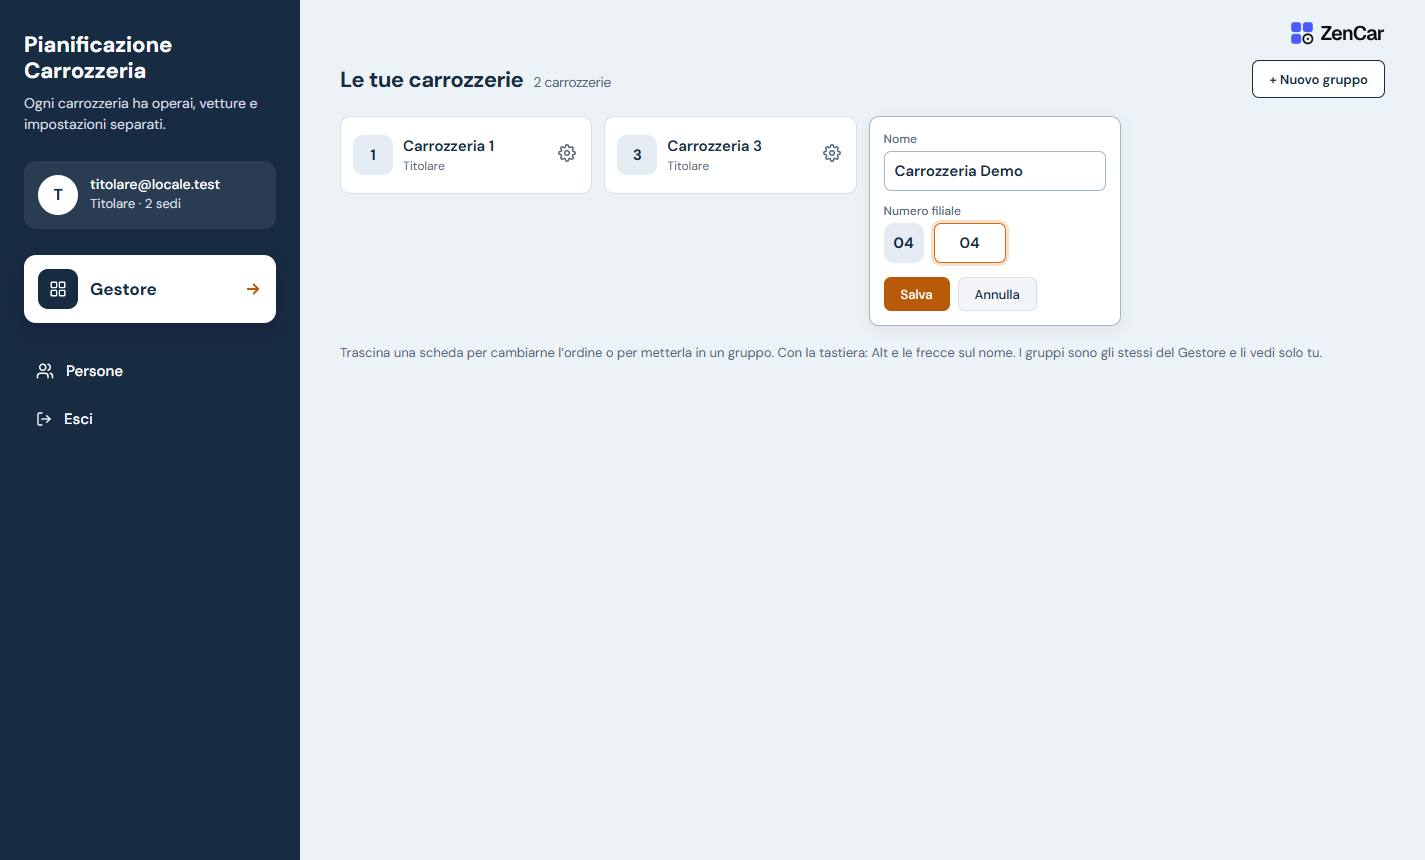
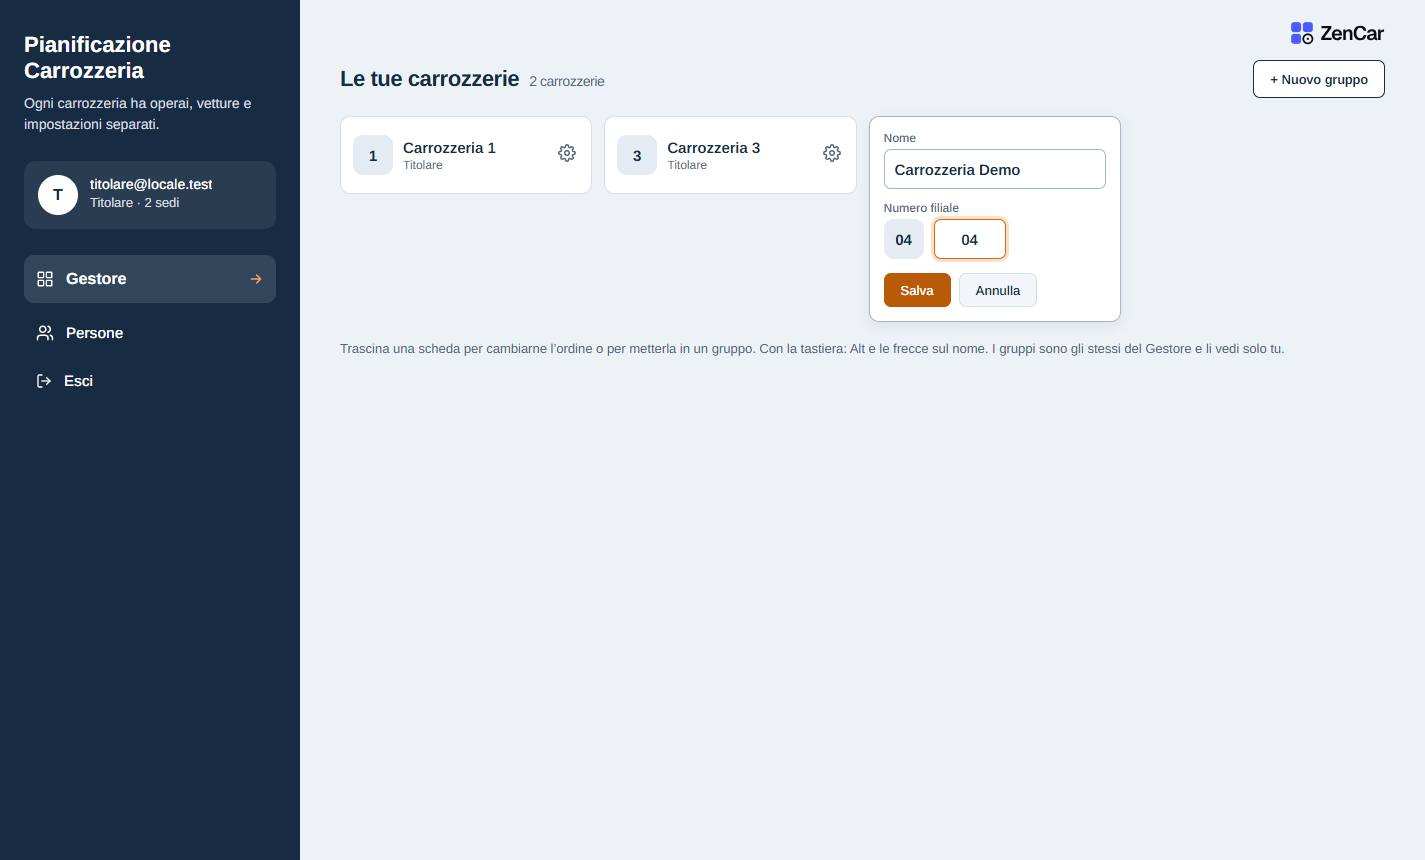
Planner 0.32.0: carattere Arimo, Gestore nel menu, barra compatta sul telefono

diff --git a/planner/accesso.css b/planner/accesso.css
@@ -447,12 +447,11 @@ body.vista-tabellone > header.top, body.vista-tabellone > #main { display: none;
 #landing .lside-chi b + span { font-size: 13px; color: #d9dde1; }
 #landing .lside-nav { display: grid; gap: 4px; }
 /* il Gestore in evidenza (proposta F, 2026-11-11): riquadro bianco con icona, titolo, spiegazione e freccia arancione */
-#landing .lges { display: grid; grid-template-columns: 40px 1fr 18px; align-items: center; gap: 12px; width: 100%; padding: 14px; border: 0; border-radius: 12px; background: var(--surface); color: var(--ink); text-align: left; cursor: pointer; box-shadow: 0 6px 18px #00000030; }
-#landing .lges:hover { background: var(--tape-soft); }
+#landing .lges { display: grid; grid-template-columns: 18px 1fr 16px; align-items: center; gap: 12px; width: 100%; height: 48px; margin-bottom: 4px; padding: 0 12px; border: 0; border-radius: 10px; background: #ffffff1f; color: #fff; text-align: left; cursor: pointer; }
+#landing .lges:hover { background: #ffffff30; }
 #landing .lges:focus-visible { outline: 3px solid var(--tape-chiaro); outline-offset: 3px; }
-#landing .lges-i { width: 40px; height: 40px; display: flex; align-items: center; justify-content: center; border-radius: 10px; background: var(--navy); color: #fff; }
-#landing .lges b { font: 700 17px var(--f, system-ui); }
-#landing .lges-f { color: var(--tape); }
+#landing .lges b { font: 700 16px var(--f, system-ui); }
+#landing .lges-f { color: #F0A060; }
 #landing .lside .lstr { justify-content: flex-start; gap: 12px; width: 100%; min-width: 0; height: 44px; padding: 0 12px; border: 0; border-radius: 7px; background: transparent; color: #fff; font: 500 15px var(--f, system-ui); text-align: left; }
 #landing .lside .lstr:hover { background: #ffffff17; }
 #landing .lside .lstr[aria-expanded="true"] { background: #ffffff24; }
@@ -583,9 +582,29 @@ body.vista-tabellone > header.top, body.vista-tabellone > #main { display: none;
 #lannuncio { position: absolute; width: 1px; height: 1px; overflow: hidden; clip: rect(0 0 0 0); white-space: nowrap; margin: 0; }
 @media (prefers-reduced-motion: reduce) { #landing .lgruppo { transition: none; } #lavviso:not([hidden]) { animation: none; } }
 /* una scheda in modifica è più alta: le altre della stessa riga restano alte 76px */
-#landing .lmain .lgrid { align-items: start; }
+#landing .lmain .lgrid { align-items: start; grid-auto-rows: auto; }
 #landing .lmain .lgrid > .lcardi, #landing .lmain .lgrid > .ladd { height: auto; }
 /* logo ZenCar in alto a destra, sul fondo chiaro (2026-11-12): sul blu notte della colonna i due blu si scontrerebbero */
 #landing .lmarchio { display: flex; justify-content: flex-end; margin: -16px 0 -4px; }
 #landing .lmarchio svg { display: block; height: 26px; width: auto; }
 @media (max-width: 900px) { #landing .lmarchio { margin: 0 0 -6px; } #landing .lmarchio svg { height: 22px; } }
+/* H (2026-11-12): la pagina delle carrozzerie usa Arimo, il carattere del planner; entrando in una carrozzeria il testo non cambia */
+#landing.elenco, #lavviso { --f: Arimo, Arial, "Helvetica Neue", sans-serif; font-family: var(--f); }
+/* K (2026-11-12): sul telefono la colonna diventa una barra compatta: chi è entrato con Persone ed Esci in icona, sotto il Gestore;
+   subito dopo la ricerca e le schede. Il logo scende in fondo alla pagina. */
+@media (max-width: 640px) {
+  #landing .lside { display: grid; grid-template-columns: minmax(0, 1fr) repeat(3, auto); align-items: center; gap: 12px 4px; padding: 12px 16px 14px; }
+  #landing .lside-tit { position: absolute; width: 1px; height: 1px; overflow: hidden; clip: rect(0 0 0 0); white-space: nowrap; }
+  #landing .lside-chi { grid-column: 1; grid-row: 1; padding: 0; background: none; gap: 10px; min-width: 0; }
+  #landing .lside-chi .conto-ini.grande { width: 36px; height: 36px; line-height: 36px; font-size: 15px; }
+  #landing .lside-nav { display: contents; }
+  #landing .lside .lstr { grid-row: 1; width: 44px; height: 44px; padding: 0; justify-content: center; }
+  #landing .lside .lstr-t { position: absolute; width: 1px; height: 1px; overflow: hidden; clip: rect(0 0 0 0); white-space: nowrap; }
+  #landing .lges { grid-column: 1 / -1; grid-row: 2; margin: 0; }
+  #landing .lmain { padding: 16px 16px 32px; gap: 12px; }
+  #landing .lmarchio { order: 99; justify-content: center; margin: 8px 0 0; }
+  #landing .lmain .lbar .ltit { font-size: 21px; }
+  #landing .lcerca input { height: 44px; font-size: 15px; }
+  #landing .lpag .lopen { min-height: 64px; padding-top: 10px !important; padding-bottom: 10px !important; }
+  #landing .lpag .lgear { top: 14px; }
+}

diff --git a/planner/accesso.js b/planner/accesso.js
@@ -242,17 +242,17 @@ const Accesso = (() => {
   /** Colonna blu notte a sinistra (proposta C scelta dal titolare il 2026-11-11): chi è entrato, strumenti, Esci. */
   function laterale(gone) {
     const email = S.utente.email || '', chi = chiSono(), b = [];
-    // il Gestore in evidenza (proposta F, 2026-11-11): riquadro bianco sul fondo blu notte, con una riga di spiegazione
-    const gestore = vedeGestore() ? `<button type="button" class="lges" data-gestore="1"><span class="lges-i">${ICONA.gestore}</span><b>Gestore</b>
-      <svg class="lges-f" width="18" height="18" viewBox="0 0 24 24" fill="none" stroke="currentColor" stroke-width="2.4" stroke-linecap="round" stroke-linejoin="round" aria-hidden="true"><path d="M5 12h14M13 6l6 6-6 6"/></svg></button>` : '';
-    if (sediMie().length) b.push(`<button type="button" class="lstr" data-persone="1">${ICONA.persone}Persone</button>`);
-    if (gone.length) b.push(`<button type="button" class="lstr" data-eliminate="1" aria-expanded="${!!S.eliminate}">${ICONA.cestino}Carrozzerie eliminate (${gone.length})</button>`);
-    b.push(`<button type="button" class="lstr" data-esci="1">${ESCI}Esci</button>`);
+    // il Gestore (proposta I, 2026-11-12): prima voce del menu, più grande e su una fascia chiara; le carrozzerie restano in primo piano
+    const gestore = vedeGestore() ? `<button type="button" class="lges" data-gestore="1">${ICONA.gestore}<b>Gestore</b>
+      <svg class="lges-f" width="16" height="16" viewBox="0 0 24 24" fill="none" stroke="currentColor" stroke-width="2.4" stroke-linecap="round" stroke-linejoin="round" aria-hidden="true"><path d="M5 12h14M13 6l6 6-6 6"/></svg></button>` : '';
+    if (sediMie().length) b.push(`<button type="button" class="lstr" data-persone="1">${ICONA.persone}<span class="lstr-t">Persone</span></button>`);
+    if (gone.length) b.push(`<button type="button" class="lstr" data-eliminate="1" aria-expanded="${!!S.eliminate}">${ICONA.cestino}<span class="lstr-t">Carrozzerie eliminate (${gone.length})</span></button>`);
+    b.push(`<button type="button" class="lstr" data-esci="1">${ESCI}<span class="lstr-t">Esci</span></button>`);
     return `<aside class="lside" aria-label="Account e strumenti">
       <div class="lside-tit"><h1>Pianificazione Carrozzeria</h1><p>Ogni carrozzeria ha operai, vetture e impostazioni separati.</p></div>
       <div class="lside-chi" title="${esc(email)}"><span class="conto-ini grande" aria-hidden="true">${esc((S.nome || email).charAt(0).toUpperCase())}</span>
         <span><b${S.nome ? '' : ' class="email"'}>${esc(S.nome || email)}</b><span>${esc(chi.ruolo)} · ${esc(chi.dove)}</span></span></div>
-      ${gestore}<nav class="lside-nav" aria-label="Strumenti">${b.join('')}</nav></aside>`;
+      <nav class="lside-nav" aria-label="Strumenti">${gestore}${b.join('')}</nav></aside>`;
   }
 
   /* ---------------------------------------------- disposizione (2026-11-11): l'utente ordina le carrozzerie trascinandole e le
